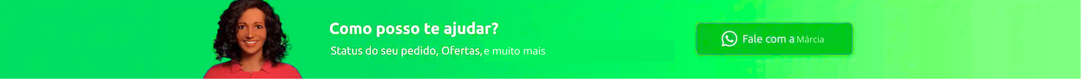
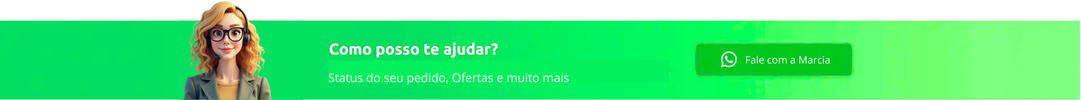
nova estilização aplicada ao footer

diff --git a/src/app/components/footer/footer.component.html b/src/app/components/footer/footer.component.html
@@ -1,13 +1,71 @@
-<img class="banner-footer" src="./assets/banner-footer.png" alt="">
+<div class="banner-footer">
+  <div class="container">
+    <img class="atendente" src="./assets/atendente.png" alt="" />
+    <div class="conteudo-banner">
+      <h2>Como posso ajudar?</h2>
+      <p>Status do seu pedido, Ofertas e muito mais.</p>
+    </div>
+    <button class="botao-whatsapp">
+      <svg
+        class="icon-whatsapp"
+        xmlns="http://www.w3.org/2000/svg"
+        viewBox="0 0 448 512"
+      >
+        <path
+          fill="#11d220"
+          d="M380.9 97.1C339 55.1 283.2 32 223.9 32c-122.4 0-222 99.6-222 222 0 39.1 10.2 77.3 29.6 111L0 480l117.7-30.9c32.4 17.7 68.9 27 106.1 27h.1c122.3 0 224.1-99.6 224.1-222 0-59.3-25.2-115-67.1-157zm-157 341.6c-33.2 0-65.7-8.9-94-25.7l-6.7-4-69.8 18.3L72 359.2l-4.4-7c-18.5-29.4-28.2-63.3-28.2-98.2 0-101.7 82.8-184.5 184.6-184.5 49.3 0 95.6 19.2 130.4 54.1 34.8 34.9 56.2 81.2 56.1 130.5 0 101.8-84.9 184.6-186.6 184.6zm101.2-138.2c-5.5-2.8-32.8-16.2-37.9-18-5.1-1.9-8.8-2.8-12.5 2.8-3.7 5.6-14.3 18-17.6 21.8-3.2 3.7-6.5 4.2-12 1.4-32.6-16.3-54-29.1-75.5-66-5.7-9.8 5.7-9.1 16.3-30.3 1.8-3.7 .9-6.9-.5-9.7-1.4-2.8-12.5-30.1-17.1-41.2-4.5-10.8-9.1-9.3-12.5-9.5-3.2-.2-6.9-.2-10.6-.2-3.7 0-9.7 1.4-14.8 6.9-5.1 5.6-19.4 19-19.4 46.3 0 27.3 19.9 53.7 22.6 57.4 2.8 3.7 39.1 59.7 94.8 83.8 35.2 15.2 49 16.5 66.6 13.9 10.7-1.6 32.8-13.4 37.4-26.4 4.6-13 4.6-24.1 3.2-26.4-1.3-2.5-5-3.9-10.5-6.6z"
+        />
+      </svg>
+      Fale com a Vitória
+    </button>
+  </div>
+</div>
 
-<div>
-  <h3>Formas de pagamento</h3>
-  <p>Crédito
-    <img src="./assets/cartoes-credito.png" width="350px" alt="Cartões de Crédito">
-  </p>
-  <p>Débito bancário
-    <img src="./assets/cartoes-debito.png" width="400px" alt="Cartões de Débito">
-  </p>
+<div class="conteudo-footer">
+  <div>
+    <h3>Formas de pagamento</h3>
+    <p>
+      Crédito
+      <img
+        src="./assets/cartoes-credito.png"
+        width="350px"
+        alt="Cartões de Crédito"
+      />
+    </p>
+    <p>
+      Débito bancário
+      <img
+        src="./assets/cartoes-debito.png"
+        width="400px"
+        alt="Cartões de Débito"
+      />
+    </p>
+  </div>
+
+  <div class="duvidas">
+    <h3>Tire suas dúvidas:</h3>
+    <p>Regiões Metropolitanas</p>
+    <button class="telefones">
+      <mat-icon
+        class="icone-telefone"
+        aria-hidden="false"
+        aria-label="Example home icon"
+        fontIcon="phone"
+      ></mat-icon>
+      1234-5678
+    </button>
+
+    <p>Demais regiões</p>
+    <button class="telefones">
+      <mat-icon
+        class="icone-telefone"
+        aria-hidden="false"
+        aria-label="Example home icon"
+        fontIcon="phone"
+      ></mat-icon>
+      8765-4321
+    </button>
+  </div>
 </div>
 
 <div class="rodape">© 2025 Placefood. Todos os direitos reservados.</div>

diff --git a/src/app/components/footer/footer.component.css b/src/app/components/footer/footer.component.css
@@ -1,8 +1,83 @@
 .banner-footer {
+  display: flex;
+  align-items: center;
   width: 100%;
+  height: 150px;
+  margin-top: 35px;
+  box-shadow: 0 -10px 30px rgba(0, 0, 0, 0.1), 0 10px 30px rgba(0, 0, 0, 0.1);
+  justify-content: space-around;
+}
+
+.conteudo-banner {
+  display: flex;
+  flex-direction: column;
+  align-items: center;
+  justify-content: center;
+
+}
+
+.container {
+  width: 80%;
+  display: flex;
+  justify-content: space-between;
+  align-items: center;
+}
+
+.botao-whatsapp {
+  display: flex;
+  align-items: center;
+  justify-content: center;
+  width: 250px;
+  height: 40px;
+  border-radius: 5px;
+  border: 2px solid var(--verde);
+  cursor: pointer;
+}
+
+.icon-whatsapp {
+  width: 20px;
+  height: 20px;
+  margin-right: 10px;
+}
+
+.atendente {
+  width: 150px;
+  height: auto;
+}
+
+.duvidas {
+  display: flex;
+  flex-direction: column;
+}
+
+.icone-telefone {
+  color: var(--verde) !important;
+  margin-right: 5px;
+}
+
+.telefones {
+  width: 300px;
+  display: flex;
+  justify-content: center;
+  align-items: center;
+  border: 2px solid var(--verde);
+  cursor: pointer;
+}
+
+.conteudo-footer {
+  display: flex;
+  flex-direction: row;
+  flex-wrap: wrap;
+  justify-content: space-around;
+}
+
+h3 {
+  margin: 30px 0px 20px 20px;
 }
 
 .rodape {
-  height: 10%;
+  text-align: center;
+  margin-top: 30px;
   background-color: var(--verde);
+  font-size: 1em;
 }

diff --git a/src/app/app.component.ts b/src/app/app.component.ts
@@ -3,12 +3,13 @@ import { RouterOutlet } from '@angular/router';
 import { MatToolbarModule } from '@angular/material/toolbar';
 import { MatButtonModule } from '@angular/material/button';
 import { MatCardModule } from '@angular/material/card';
+import { MatIconModule } from '@angular/material/icon';
 import { MatInputModule } from '@angular/material/input';
 import { PlacefoodComponent } from './components/placefood/placefood.component';
 import { NavComponent } from './components/nav/nav.component';
 import { NzDemoCarouselAutoplayComponent } from './components/carousel01/carousel01.component';
 import { ContainerComponent } from './components/container/container.component';
-import { FooterComponent } from "./components/footer/footer.component";
+import { FooterComponent } from './components/footer/footer.component';
 
 @Component({
   selector: 'app-root',
@@ -18,12 +19,13 @@ import { FooterComponent } from "./components/footer/footer.component";
     MatButtonModule,
     MatCardModule,
     MatInputModule,
+    MatIconModule,
     PlacefoodComponent,
     NavComponent,
     ContainerComponent,
     NzDemoCarouselAutoplayComponent,
-    FooterComponent
-],
+    FooterComponent,
+  ],
   templateUrl: './app.component.html',
   styleUrl: './app.component.css',
 })

diff --git a/src/app/components/placefood/placefood.component.css b/src/app/components/placefood/placefood.component.css
@@ -14,8 +14,8 @@ form {
 input {
   width: 60vw;
   border-radius: 5px 0px 0px 5px;
-  border-color: var(--verde-logo);
-  outline: transparent;
+  border: 2px solid var(--verde-logo);
+  border-right: none;
 }
 
 input::placeholder {
@@ -23,7 +23,7 @@ input::placeholder {
 }
 
 input:focus {
-  border-color: var(--verde-claro);
+  border: 1px solid var(--verde-claro);
 }
 
 .buscar {
@@ -31,7 +31,6 @@ input:focus {
   height: 45px;
   padding: 10px 20px;
   border-radius: 1px;
-  border: 1px solid transparent;
   margin-right: 20px;
   cursor: pointer;
   box-shadow: 0 4px 6px rgba(0, 0, 0, 0.1);
@@ -61,21 +60,18 @@ input:focus {
 }
 
 @media (max-width: 480px) {
-
   input {
     width: 50px;
   }
 }
 
 @media (max-width: 600px) {
-
   input {
     width: 300px;
   }
 }
 
 @media (max-width: 768px) {
-
   img {
     width: 100px !important;
   }
@@ -92,7 +88,8 @@ input:focus {
     display: flex;
   }
 
-  .botoes-conta .cria-conta, .botoes-conta .logar {
+  .botoes-conta .cria-conta,
+  .botoes-conta .logar {
     font-size: 0.8rem;
     border: none;
     cursor: pointer;

diff --git a/src/app/pages/home/home.component.css b/src/app/pages/home/home.component.css
@@ -1,4 +1,6 @@
-.titulo-sugeridos, .titulo-destaques, .titulo-hortifruti {
+.titulo-sugeridos,
+.titulo-destaques,
+.titulo-hortifruti {
   border-left: 5px solid var(--verde);
   padding-left: 20px;
   font-size: 1.3rem;
@@ -7,7 +9,9 @@
   margin-top: 30px;
 }
 
-.sugerido-cards, .destaques-cards, .hortifruti-cards {
+.sugerido-cards,
+.destaques-cards,
+.hortifruti-cards {
   display: flex;
   flex-wrap: wrap;
   gap: 20px;

diff --git a/src/app/components/footer/footer.component.ts b/src/app/components/footer/footer.component.ts
@@ -1,8 +1,9 @@
 import { Component } from '@angular/core';
+import { MatIconModule } from '@angular/material/icon';
 
 @Component({
   selector: 'app-footer',
-  imports: [],
+  imports: [MatIconModule],
   templateUrl: './footer.component.html',
   styleUrl: './footer.component.css'
 })

diff --git a/src/app/components/placefood/placefood.component.html b/src/app/components/placefood/placefood.component.html
@@ -1,5 +1,5 @@
 <section>
-  <form >
+  <form>
     <input matInput type="text" placeholder="Pesquisar na Placefood.com" />
     <button mat-button class="buscar">
       <svg

diff --git a/src/styles.css b/src/styles.css
@@ -4,7 +4,7 @@
   --verde: #76c76d;
   --branco: #FFFFFF;
   --cinza-claro: #d3d3d3;
-  --verde-logo: #11D220;
+  --verde-logo: rgb(17, 210, 32);
 }
 
 html, body {

diff --git a/src/app/components/card-produtos/card-produtos.component.html b/src/app/components/card-produtos/card-produtos.component.html
@@ -9,3 +9,4 @@
   <mat-card-actions>
     <button mat-button>Adicionar</button>
   </mat-card-actions>
+</mat-card>
